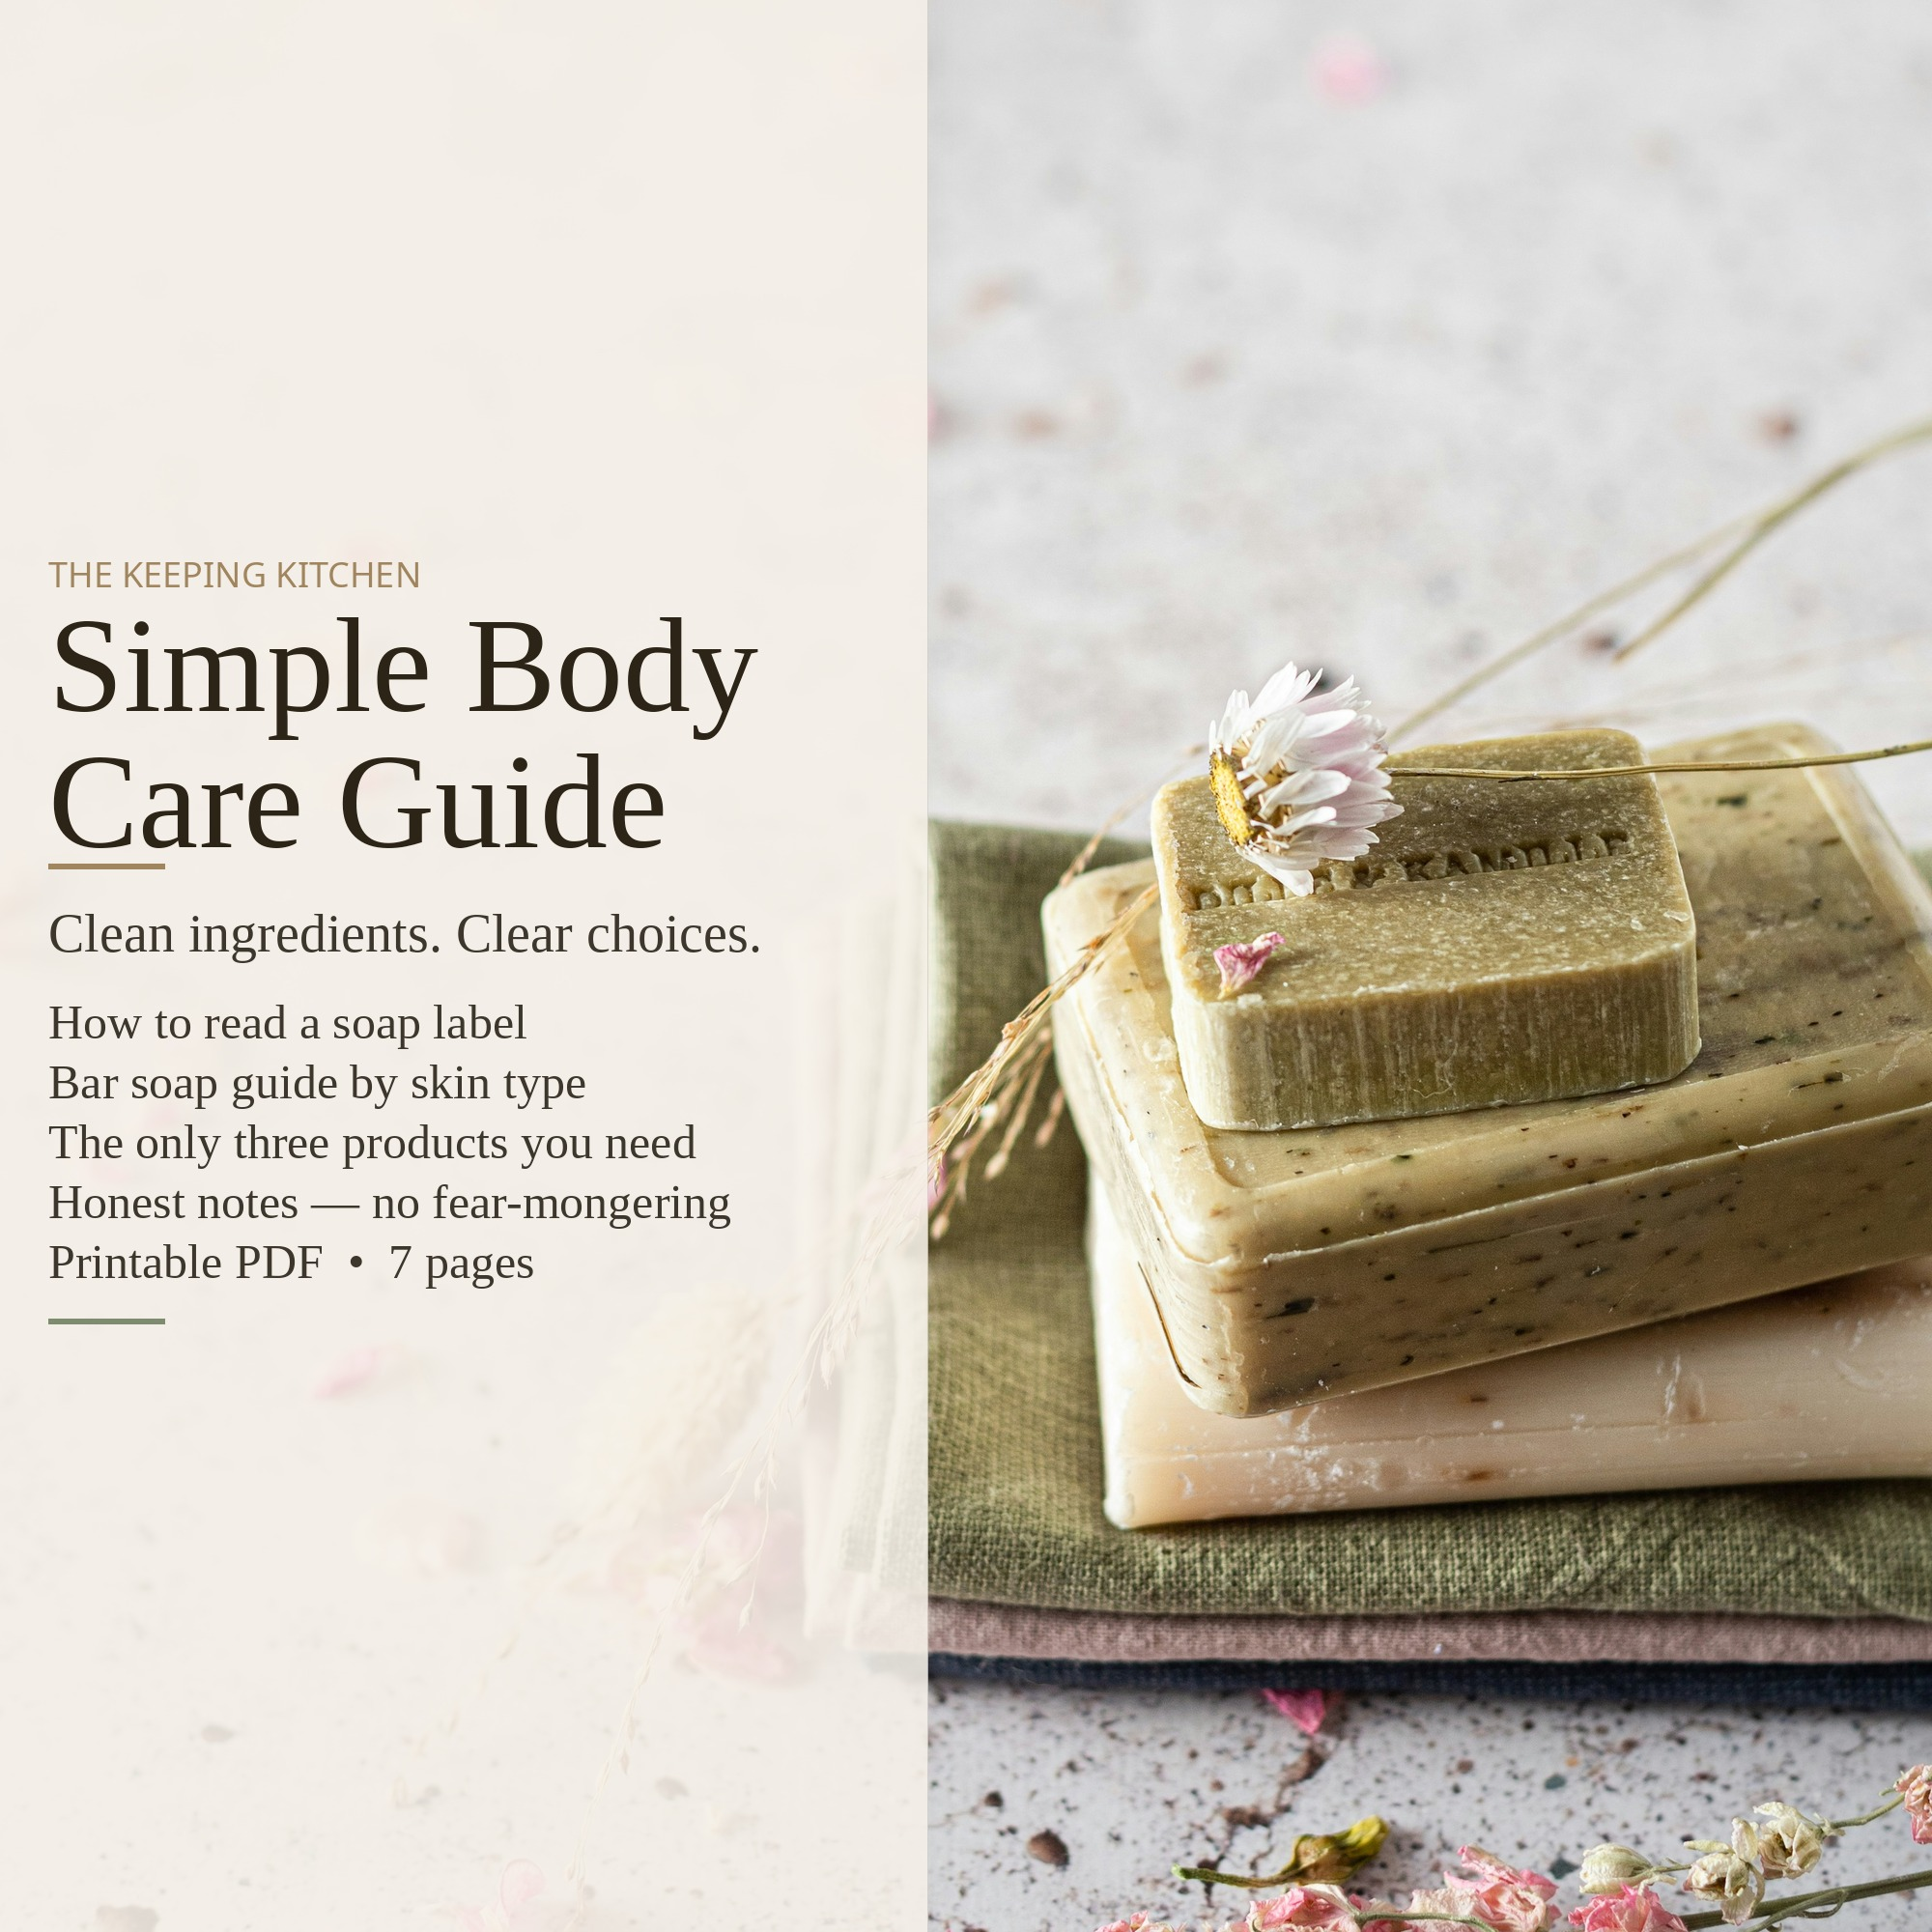
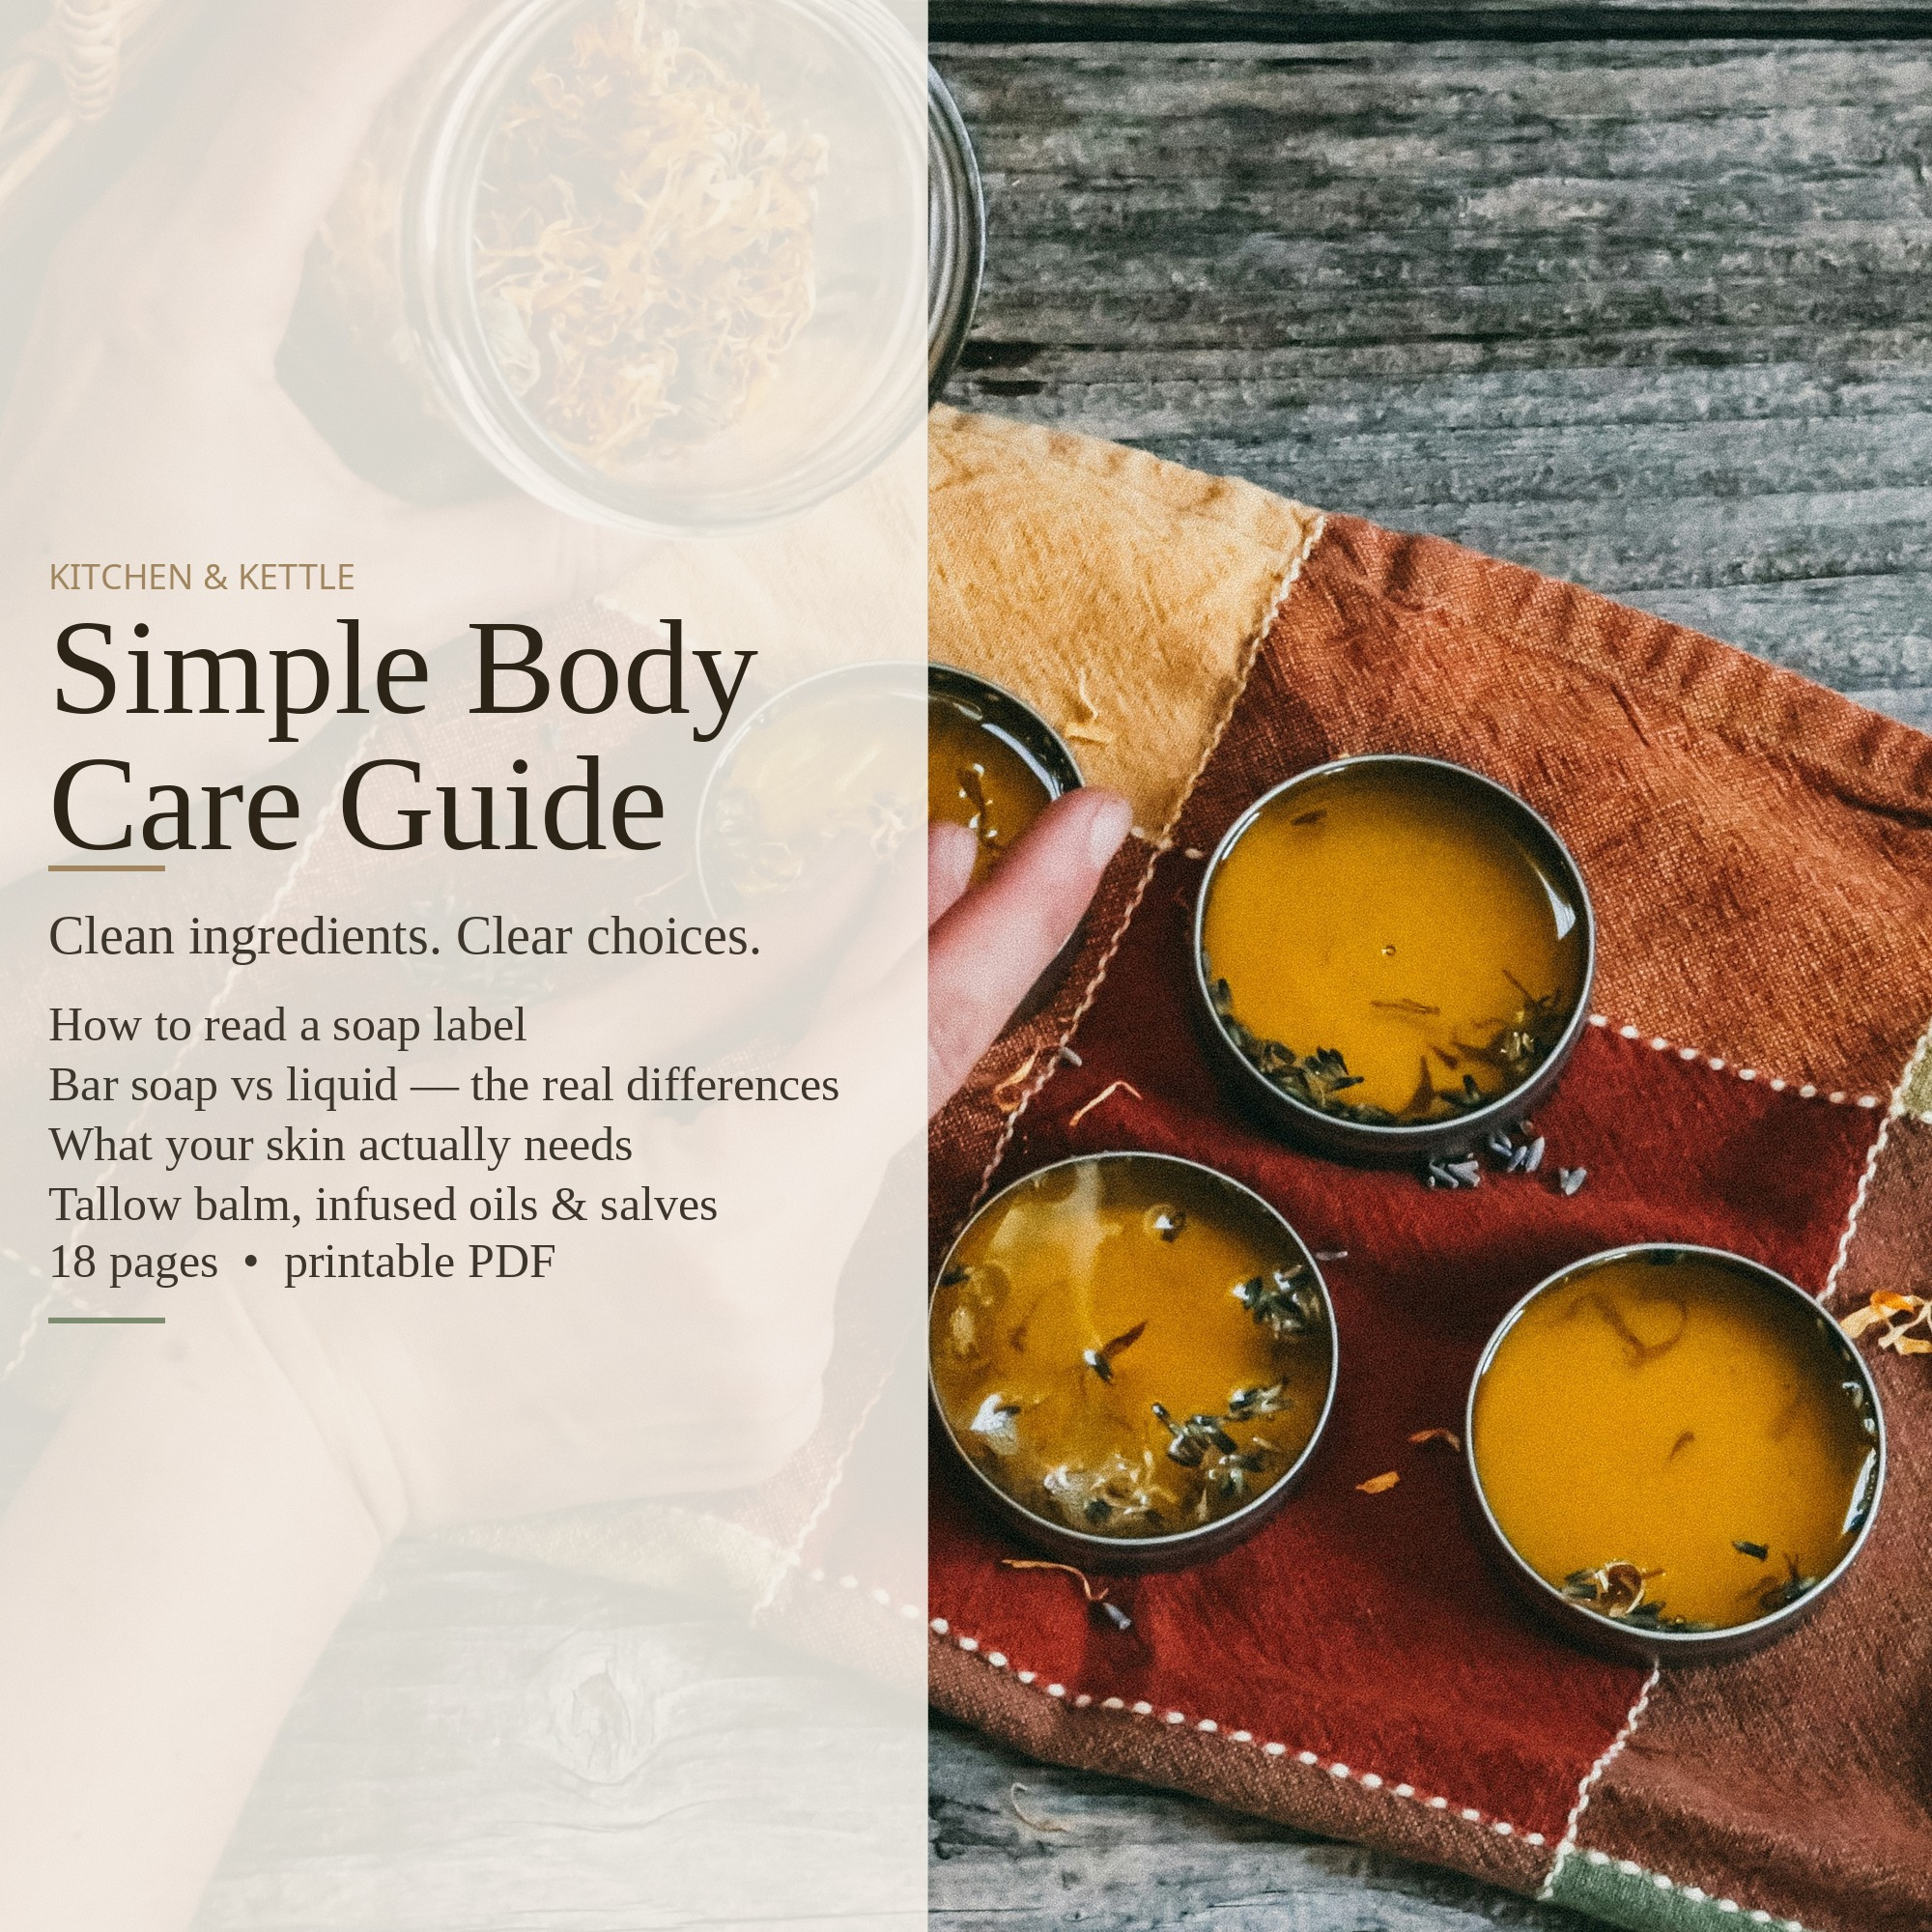
body-care: rebuild all listing images with Kitchen & Kettle branding
Primary: split-panel composite using body-care-primary.jpg
Info card 1: What's Inside — feature list, 18 pages
Info card 2: The Simple System — rules + honest note
Listing.md updated to match actual 18-page guide content

diff --git a/digital-products/body-care-guide/listing.md b/digital-products/body-care-guide/listing.md
@@ -17,16 +17,17 @@ Clean ingredients. Clear choices. Fewer products.
 
 The body care industry wants you to believe you need a different product for every part of your body. You don't. This guide helps you read soap labels, choose products that work for your skin, and build a simple routine — without the fear-mongering or the 10-step regimen.
 
-**What's inside (7 pages):**
-- **Why simpler is better** — Bar soap vs. liquid soap, what "clean" actually means, and why fewer ingredients usually = happier skin
-- **How to read a soap label** — Common ingredients decoded. What they are, what they do, and which ones to skip
-- **A short guide to bar soaps** — Drugstore staples, castile soap, and what to ask before buying handmade. Honest notes on what works for different skin
-- **Soap by skin type** — Quick reference table: what to look for if your skin is normal, dry, sensitive, or oily
-- **Beyond soap** — What most people actually need beyond a good bar of soap, and when simple isn't enough
-- **Quick reference** — Label red flags, good starting points for every preference, and the simple daily routine
-- **Notes pages** — Track what soaps worked, what didn't, and your seasonal skin notes
+**What's inside (18 pages):**
+- **Bar soap vs liquid** — The real differences, and why bar soap sidesteps the preservative question
+- **How to read a soap label** — Common ingredients decoded. What they are, what they do, which ones to skip
+- **Soap types at a glance** — Milled true soap, standard bar, syndet, and castile compared side by side
+- **What your skin actually needs** — Moisturizer, sunscreen (with a clear explanation of broad spectrum), plus the two serums with real research behind them
+- **Body Care Reality Filter** — What's worth making yourself and what's better to buy. Honest, not preachy
+- **Recipes** — Tallow balm, infused oils, salves, deodorant, bath salts
+- **Quick reference** — Label red flags, good starting points, the simple daily routine
+- **Notes pages** — Track what soaps worked, what didn't, your moisturizer, and seasonal skin notes
 
-**Honest throughout:** No soap cures eczema. "Natural" doesn't mean gentle. If you have a skin condition, see a doctor — not a product label.
+**Honest throughout.** Your skin is an organ. It doesn't need a ten-step routine. A good soap, a moisturizer you actually use, and sunscreen — that's all most people need.
 
 ▶ This is a digital download. No physical product will be shipped.
 ▶ To open: double-click the HTML file to open in your browser. If that doesn't work, drag and drop the file into any open browser window (Chrome, Safari, Firefox, Edge). No special software needed.
@@ -35,7 +36,7 @@ The body care industry wants you to believe you need a different product for eve
 ▶ To save as PDF: File → Print → Save as PDF (built into every browser).
 
 ## Tags (copy-paste, comma-separated)
-body care guide, clean soap guide, natural skincare, soap label guide, simple body care, bar soap guide, skincare routine, sensitive skin, natural soap, clean beauty, printable PDF, healthy skin, digital download
+body care guide, soap label guide, natural skincare, printable skincare, tallow balm recipe, infused oils, simple routine, skincare for beginners
 
 ## Price
 $6.00